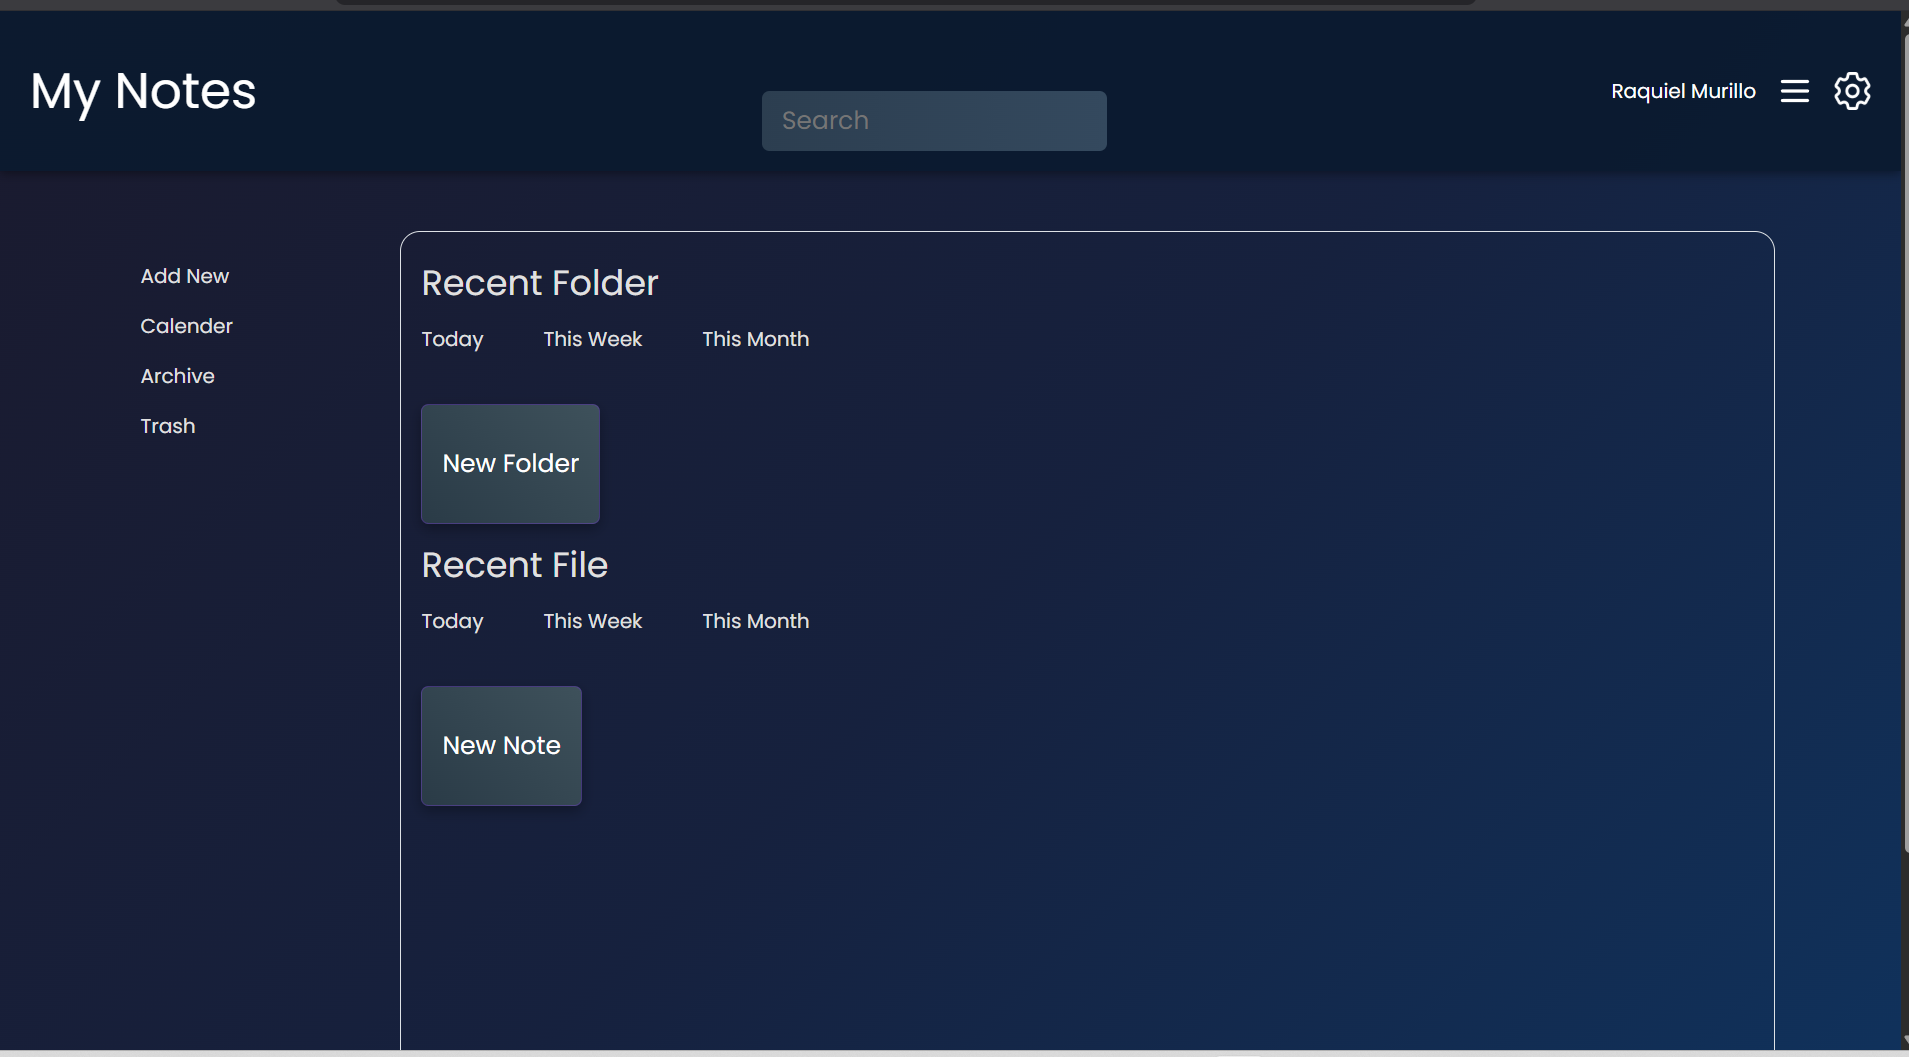
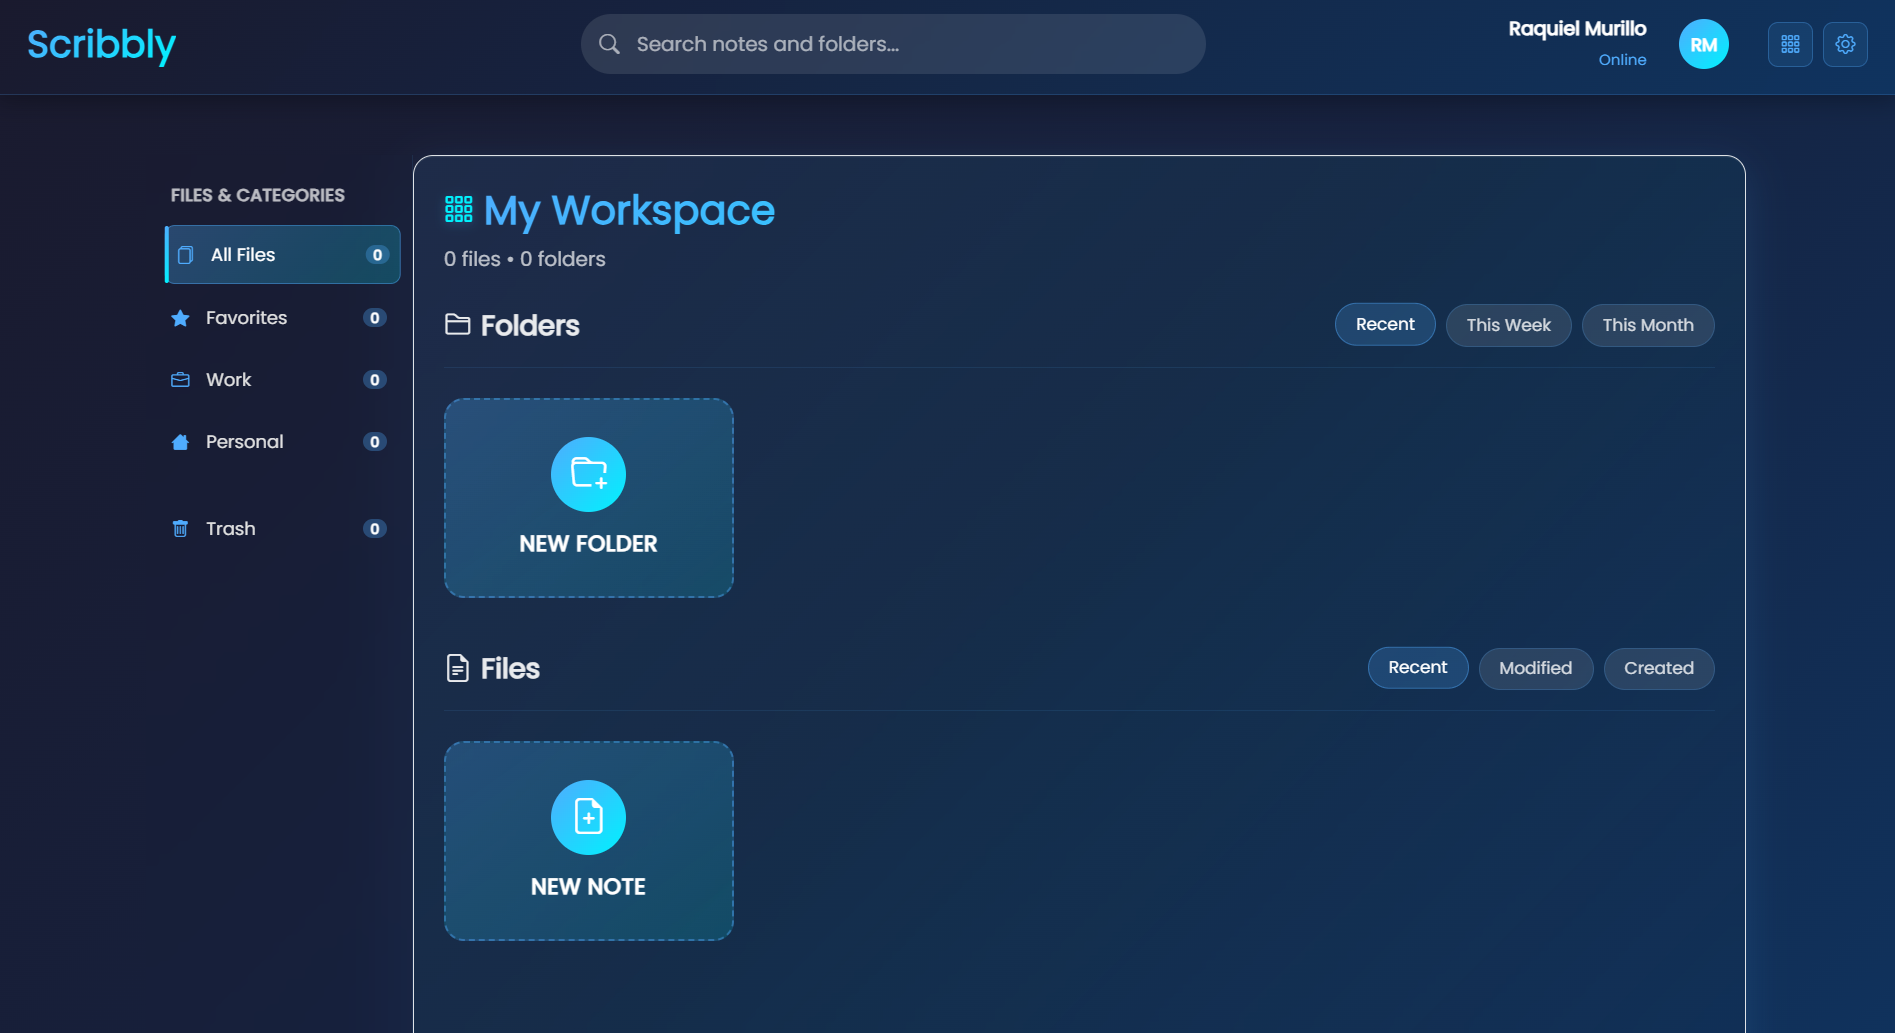
updated the ui

diff --git a/src/components/ExperienceSection.jsx b/src/components/ExperienceSection.jsx
@@ -1,0 +1,147 @@
+import { Briefcase, Calendar, MapPin, ExternalLink, Award, TrendingUp } from "lucide-react";
+
+const experiences = [
+  {
+    role: "Web Development Intern",
+    company: "Oasis Infobyte",
+    period: "Aug 2025 - Present",
+    location: "Remote",
+    description: "Currently assisting in designing, developing, and maintaining responsive websites and web applications using modern technologies.",
+    skills: ["HTML/CSS", "JavaScript", "React", "Tailwind CSS"],
+    type: "Current"
+  },
+  {
+    role: "Frontend Developer Intern",
+    company: "Cube AI Solution",
+    period: "Jan 2025 - Mar 2025",
+    location: "Remote",
+    description: "Built responsive web apps using React, TailwindCSS, and JavaScript, focusing on mobile-first design and cross-browser compatibility.",
+    skills: ["React", "Tailwind CSS", "Vite", "API Integration"],
+    type: "Completed"
+  },
+  {
+    role: "Full-Stack Development Intern",
+    company: "Octanet Services Pvt. Ltd.",
+    period: "Jun 2024 - Mar 2024",
+    location: "Remote",
+    description: "Built end-to-end solutions using React, Node.js, Express.js with dynamic MongoDB and MySQL integration.",
+    skills: ["JavaScript", "React", "Node.js", "Express.js", "MongoDB"],
+    type: "Completed"
+  }
+];
+
+export const ExperienceSection = () => {
+  return (
+    <section id="experience" className="py-16 px-4 bg-background">
+      <div className="container mx-auto max-w-5xl relative">
+        {/* Header */}
+        <div className="text-center mb-12">
+          <div className="inline-flex items-center gap-3 mb-4">
+            
+            <h2 className="text-3xl md:text-4xl font-bold">
+              Professional <span className="bg-gradient-to-r from-primary to-primary/70 bg-clip-text text-transparent">Journey</span>
+            </h2>
+          </div>
+          <p className="text-muted-foreground max-w-xl mx-auto">
+            Building digital solutions through hands-on experience in modern web technologies.
+          </p>
+        </div>
+
+        {/* Timeline */}
+        <div className="relative">
+          {/* Timeline line */}
+          <div className="absolute left-6 md:left-1/2 transform md:-translate-x-px top-0 bottom-0 w-px bg-gradient-to-b from-primary via-primary/40 to-transparent hidden md:block"></div>
+          
+          {experiences.map((exp, idx) => (
+            <div key={idx} className="relative mb-10 group">
+              {/* Timeline dot */}
+              <div className="absolute left-4 md:left-1/2 transform md:-translate-x-1/2 top-6 w-3 h-3 bg-primary rounded-full border-2 border-background shadow-lg z-10 group-hover:scale-125 transition-transform duration-300 hidden md:block"></div>
+              
+              {/* Experience card */}
+              <div className={`md:w-1/2 ${idx % 2 === 0 ? 'md:pr-8' : 'md:ml-auto md:pl-8'}`}>
+                <div className="relative bg-card rounded-xl p-6 shadow-lg border border-border hover:shadow-xl transition-all duration-300 hover:-translate-y-1 group-hover:border-primary/30">
+                  
+                  {/* Card arrow for desktop */}
+                  <div className={`hidden md:block absolute top-6 ${idx % 2 === 0 ? '-right-2' : '-left-2'} w-4 h-4 rotate-45 bg-card border-l border-t border-border group-hover:border-primary/30 transition-colors duration-300`}></div>
+                  
+                  {/* Status badge */}
+                  <div className="flex items-center justify-between mb-4">
+                    <span className={`px-3 py-1 rounded-full text-xs font-medium border ${
+                      exp.type === 'Current' 
+                        ? 'bg-green-500/10 text-green-400 border-green-500/20 animate-pulse' 
+                        : 'bg-primary/10 text-primary border-primary/20'
+                    }`}>
+                      {exp.type === 'Current' ? '🚀 Current' : '✅ Completed'}
+                    </span>
+                    <Award className="w-4 h-4 text-primary/60 group-hover:text-primary transition-colors" />
+                  </div>
+
+                  {/* Role and company */}
+                  <div className="mb-4">
+                    <h3 className="text-lg font-bold mb-2 group-hover:text-primary transition-colors duration-300">
+                      {exp.role}
+                    </h3>
+                    <div className="space-y-1">
+                      <div className="flex items-center gap-2 text-primary font-medium">
+                        <Briefcase className="w-4 h-4" />
+                        <span className="text-sm">{exp.company}</span>
+                      </div>
+                      <div className="flex flex-wrap gap-3 text-muted-foreground text-xs">
+                        <div className="flex items-center gap-1">
+                          <Calendar className="w-3 h-3" />
+                          <span>{exp.period}</span>
+                        </div>
+                        <div className="flex items-center gap-1">
+                          <MapPin className="w-3 h-3" />
+                          <span>{exp.location}</span>
+                        </div>
+                      </div>
+                    </div>
+                  </div>
+
+                  {/* Description */}
+                  <p className="text-foreground/90 mb-4 leading-relaxed text-sm">
+                    {exp.description}
+                  </p>
+
+                  {/* Skills */}
+                  <div className="space-y-2">
+                    <h4 className="text-xs font-semibold text-primary uppercase tracking-wide">Technologies</h4>
+                    <div className="flex flex-wrap gap-1.5">
+                      {exp.skills.map((skill, i) => (
+                        <span
+                          key={i}
+                          className="px-2 py-1 rounded-md bg-primary/5 border border-primary/10 text-foreground text-xs font-medium hover:bg-primary/10 hover:border-primary/20 transition-all duration-300"
+                        >
+                          {skill}
+                        </span>
+                      ))}
+                    </div>
+                  </div>
+                </div>
+              </div>
+            </div>
+          ))}
+        </div>
+
+        {/* Call to action */}
+        <div className="text-center mt-12">
+          <div className="inline-block relative">
+            <div className="relative bg-card rounded-xl p-6 border border-border shadow-lg">
+              <h3 className="text-lg font-bold mb-2">Ready to collaborate?</h3>
+              <p className="text-muted-foreground mb-4 max-w-sm mx-auto text-sm">
+                I'm excited to take on new challenges and contribute to innovative projects.
+              </p>
+              <a 
+                href="#contact" 
+                className="inline-flex items-center gap-2 px-4 py-2 bg-primary text-primary-foreground rounded-lg font-medium hover:bg-primary/90 transition-all duration-300 hover:scale-105 shadow-md text-sm"
+              >
+                Let's work together <ExternalLink className="w-3 h-3" />
+              </a>
+            </div>
+          </div>
+        </div>
+      </div>
+    </section>
+  );
+};

diff --git a/src/pages/Home.jsx b/src/pages/Home.jsx
@@ -5,6 +5,7 @@ import { HeroSection } from "../components/HeroSection"
 import { AboutSection } from "../components/AboutSection"
 import { SkillsSection } from "../components/SkillsSection"
 import { ProjectSection } from "../components/ProjectsSection"
+import { ExperienceSection } from "../components/ExperienceSection"
 import { ContactSection } from "../components/ContactSection"
 import { Footer } from "../components/Footer"
 
@@ -24,6 +25,7 @@ export const Home =()=>{
             <AboutSection/>
             <SkillsSection/>
             <ProjectSection/>
+            <ExperienceSection/>
             <ContactSection/>
         </main>
         {/* Footer  */}

diff --git a/src/components/ProjectsSection.jsx b/src/components/ProjectsSection.jsx
@@ -20,7 +20,7 @@ const projects = [
   },
   {
     id: 2,
-    title: "MyNotes Application",
+    title: "Scribbly Notes-Application",
     description:
       "A modern and intuitive notes manager built with React, Bootstrap, and Express.",
     image: "/projects/Mynotes.png",

diff --git a/src/components/Navbar.jsx b/src/components/Navbar.jsx
@@ -7,6 +7,7 @@ const navItems = [
   { name: "About", href: "#about" },
   { name: "Skills", href: "#skills" },
   { name: "Projects", href: "#projects" },
+  { name: "Experience", href: "#experience" },
   { name: "Contact", href: "#contact" },
 ];
 
